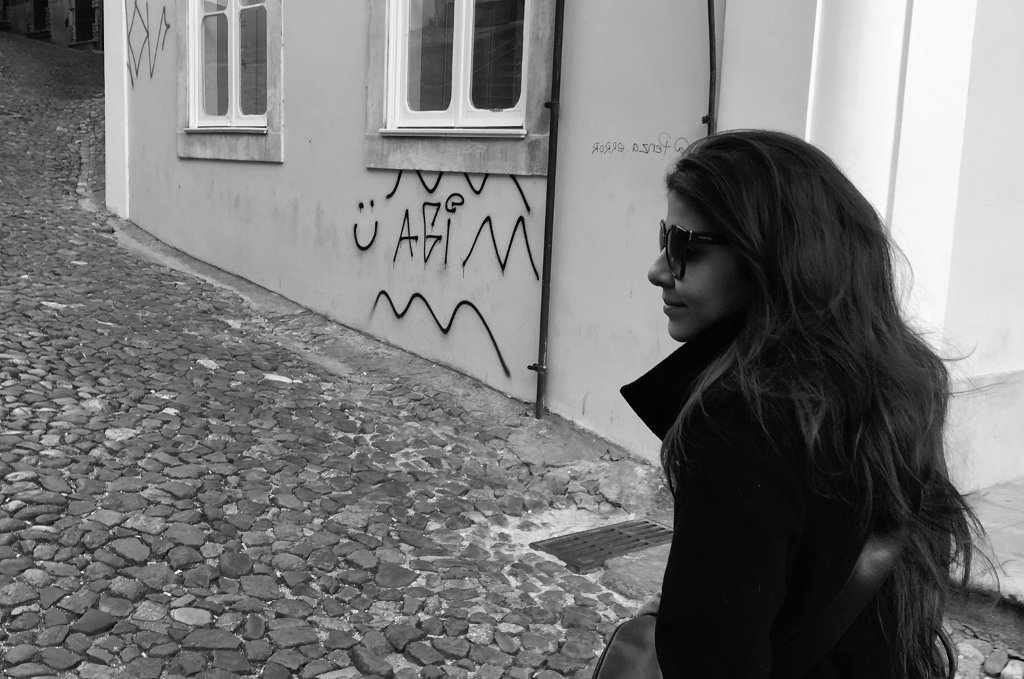
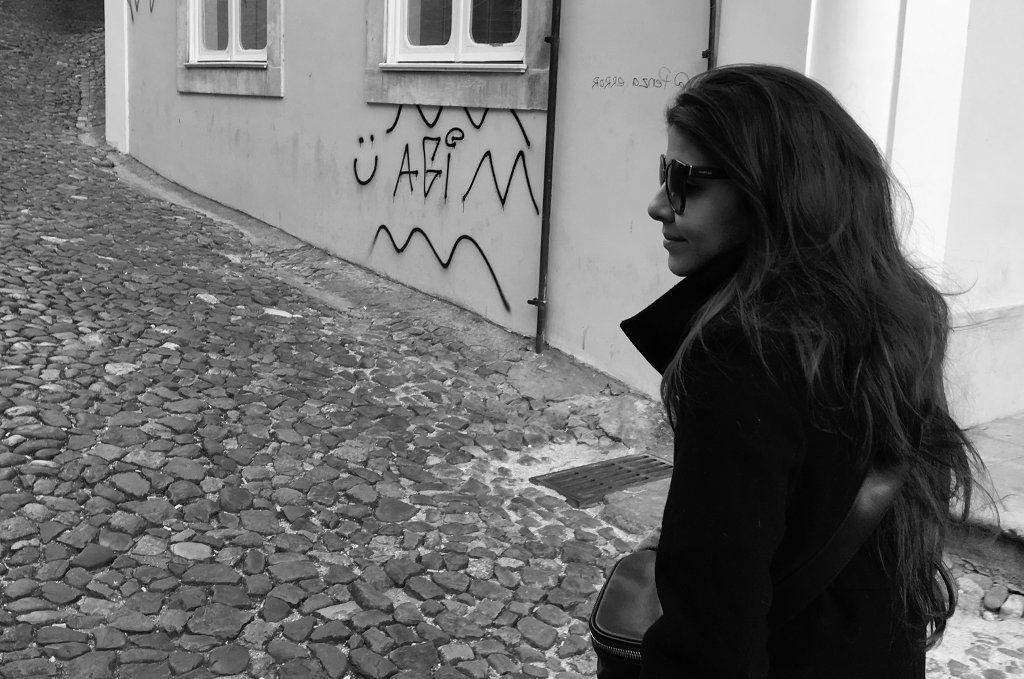
novo codigo de fundo

diff --git a/index.html b/index.html
@@ -7,7 +7,8 @@
     <title>Bel Albuquerque</title>
   <style>
       body {
-        background-color: rgb(117, 116, 116);
+        
+        background: #838383 url("bel.jpg") no-repeat right top fixed
       }
       h1 {
     color: rgb(206, 206, 206);
@@ -28,8 +29,6 @@
   </style>
 </head>
 <body>
-   
-    <img class="fotoDaBel" src="bel.jpg" alt="Foto de Bel Albuquerque" align="right" width="1400px" position=absolute>
     <br><br><br><br><br><br><br><br><br><br>
     <br><br><br><br><br>
     <h1> <b>Bel Albuquerque</b></h1>
